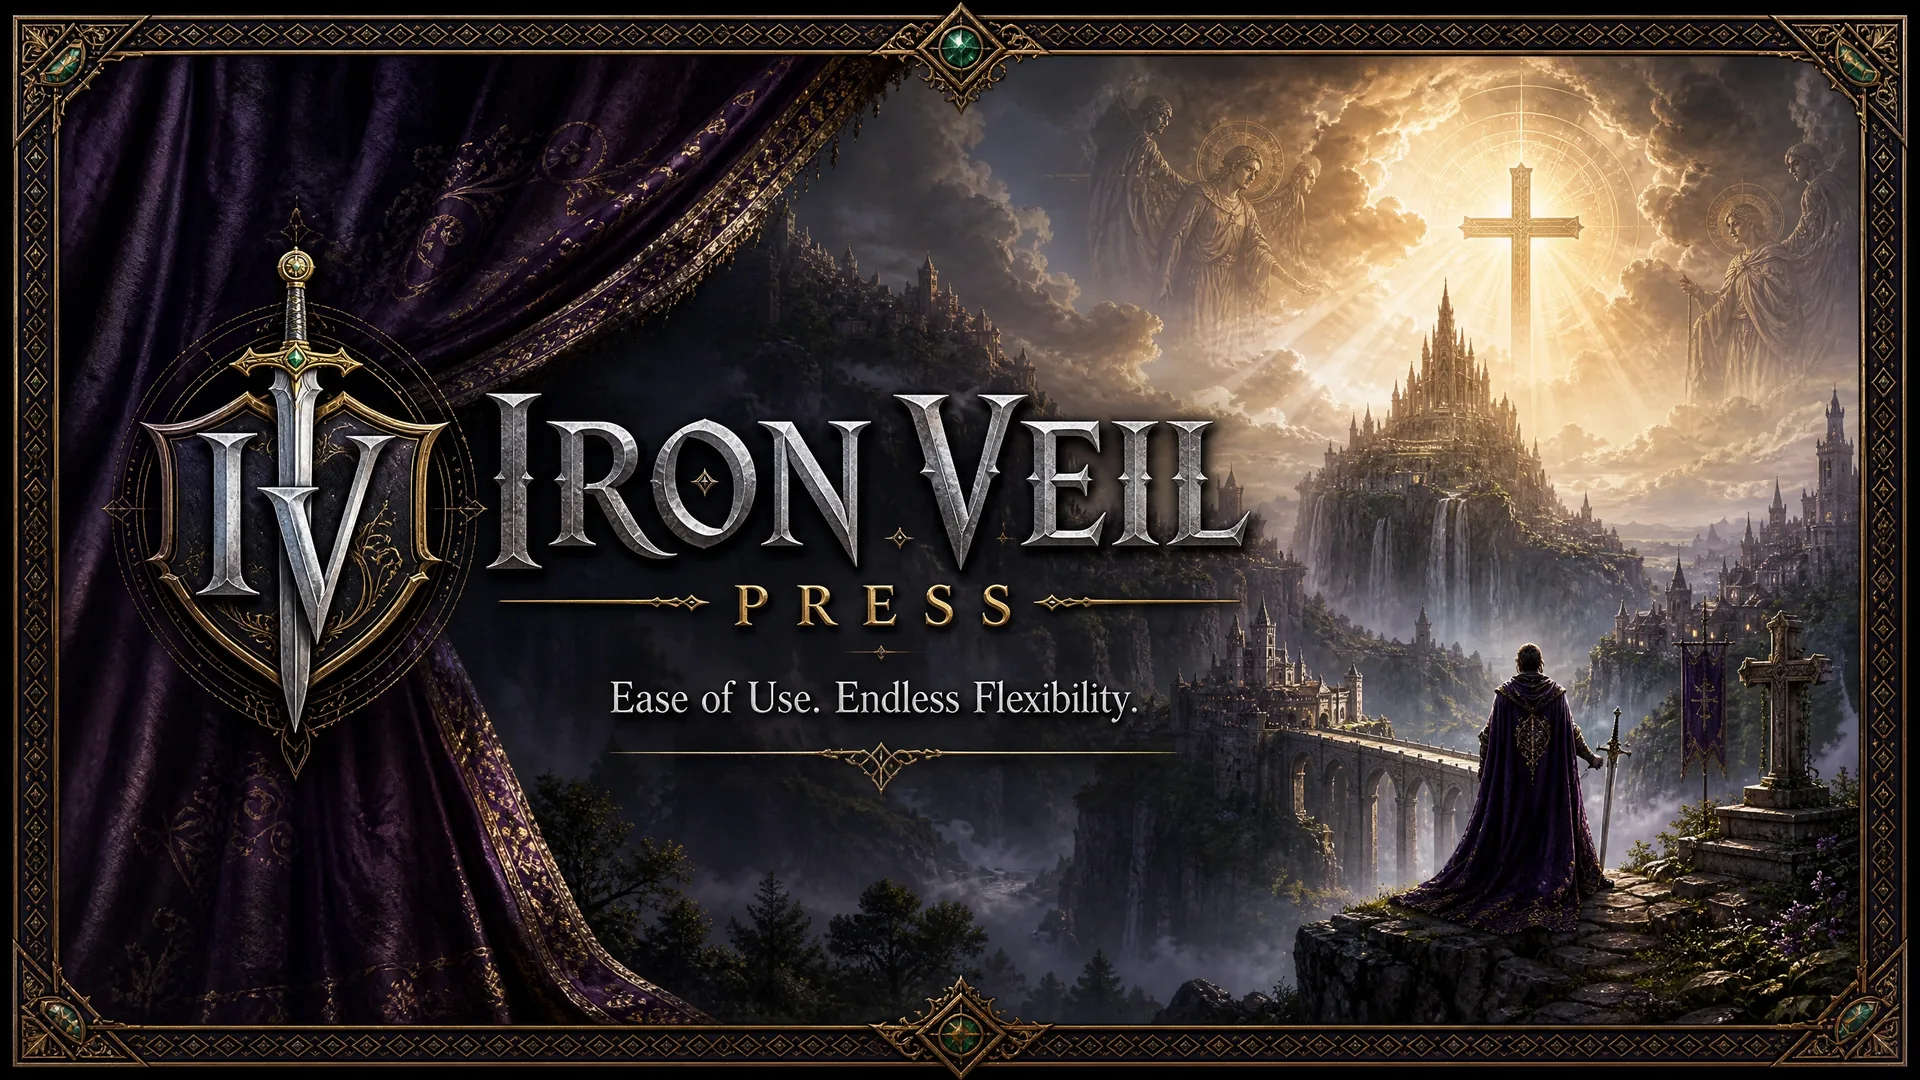
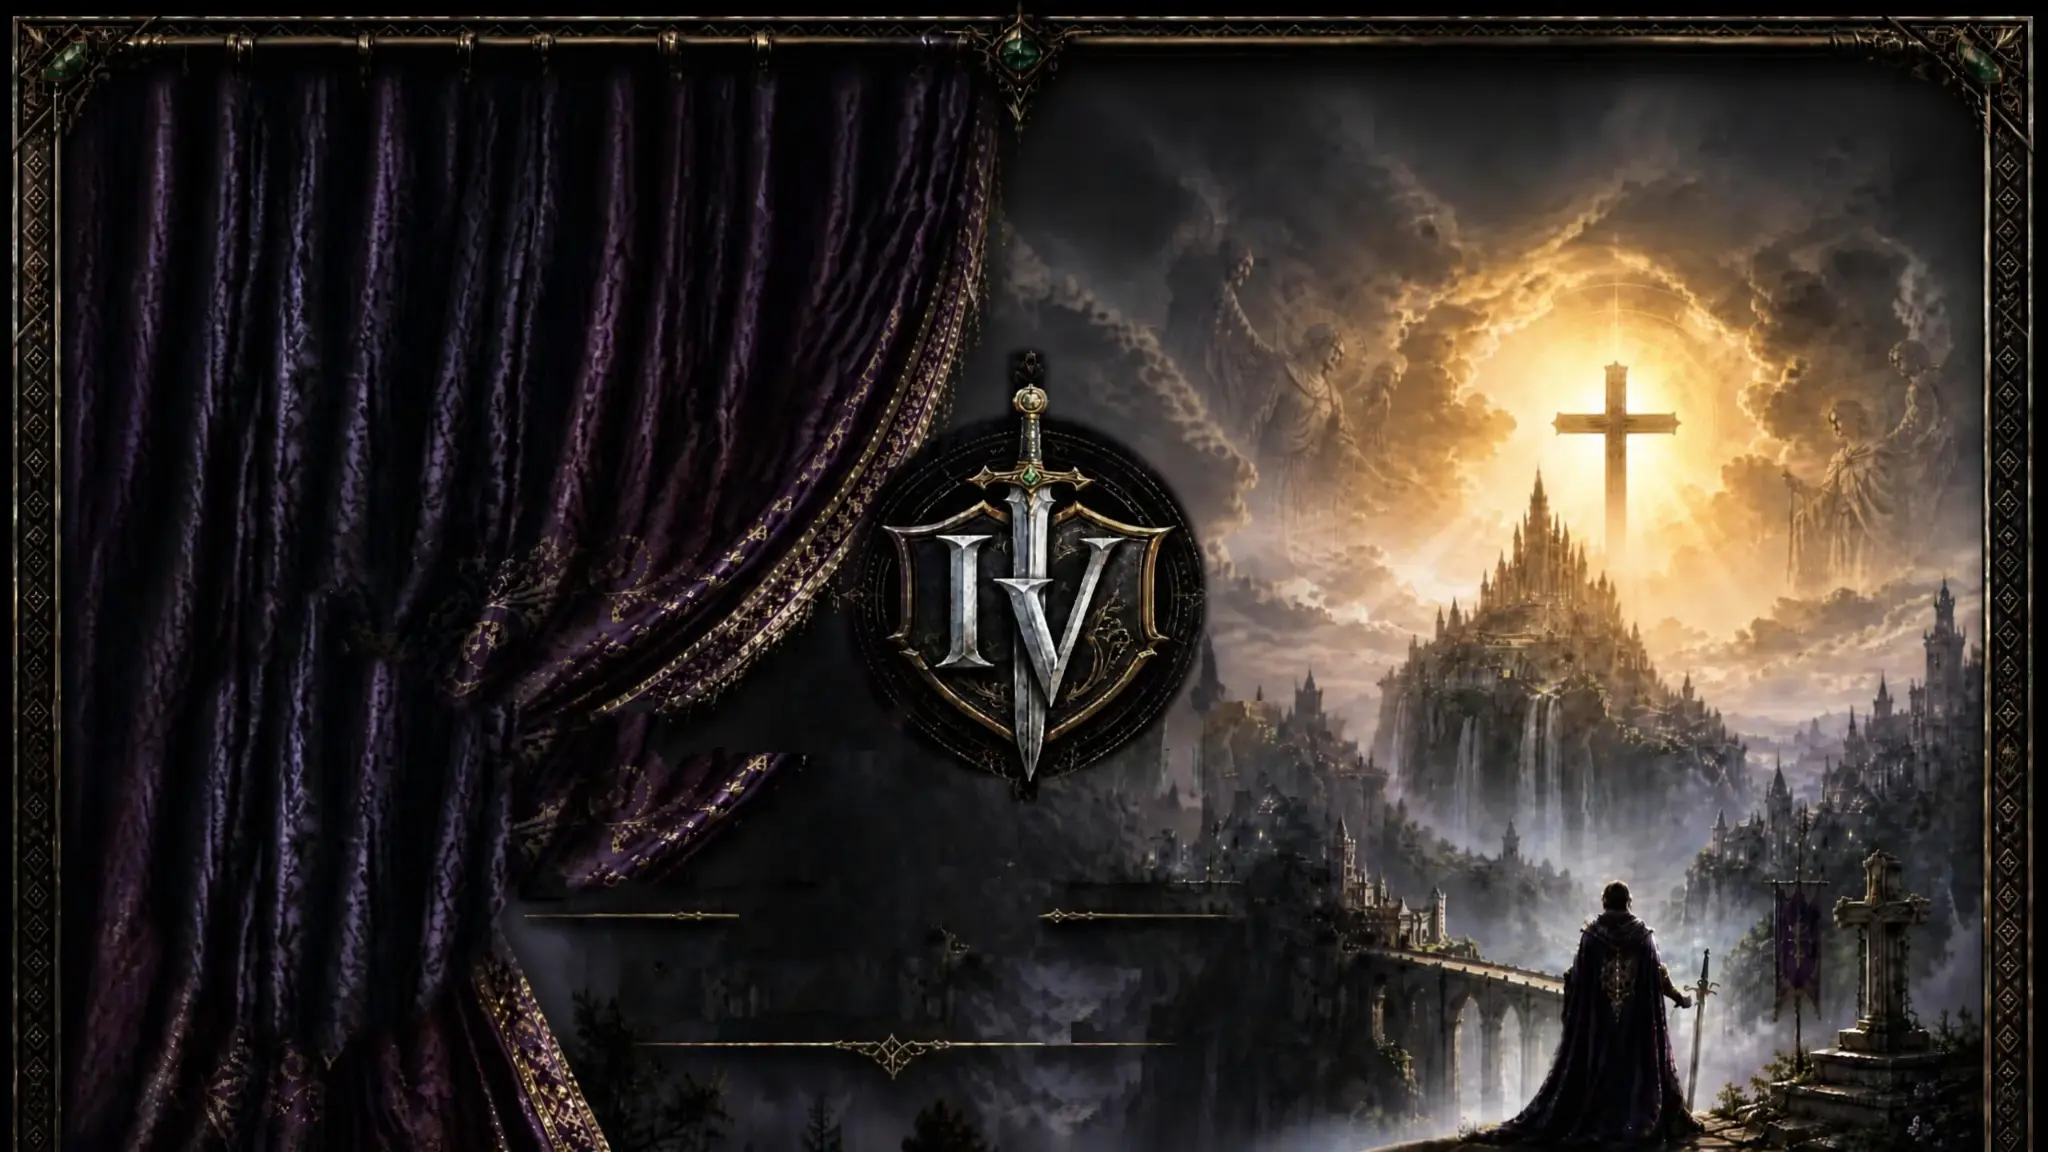
Replace live homepage hero background

diff --git a/client/src/pages/Home.tsx b/client/src/pages/Home.tsx
@@ -1,6 +1,6 @@
 import { Link } from "wouter";
 
-const heroImage = "/images/iron-veil-press-New_background.webp";
+const heroImage = "/images/iron-veil-press-background.png";
 const playtestImage = "/manus-storage/ironveil-playtest-crossing_1e3bff1b.png";
 const catalogueImage = "/manus-storage/ironveil-catalogue-ashenfold_03d8504c.png";
 const lanternMark = "/manus-storage/ironveil-lantern-mark_d1d947ac.png";
